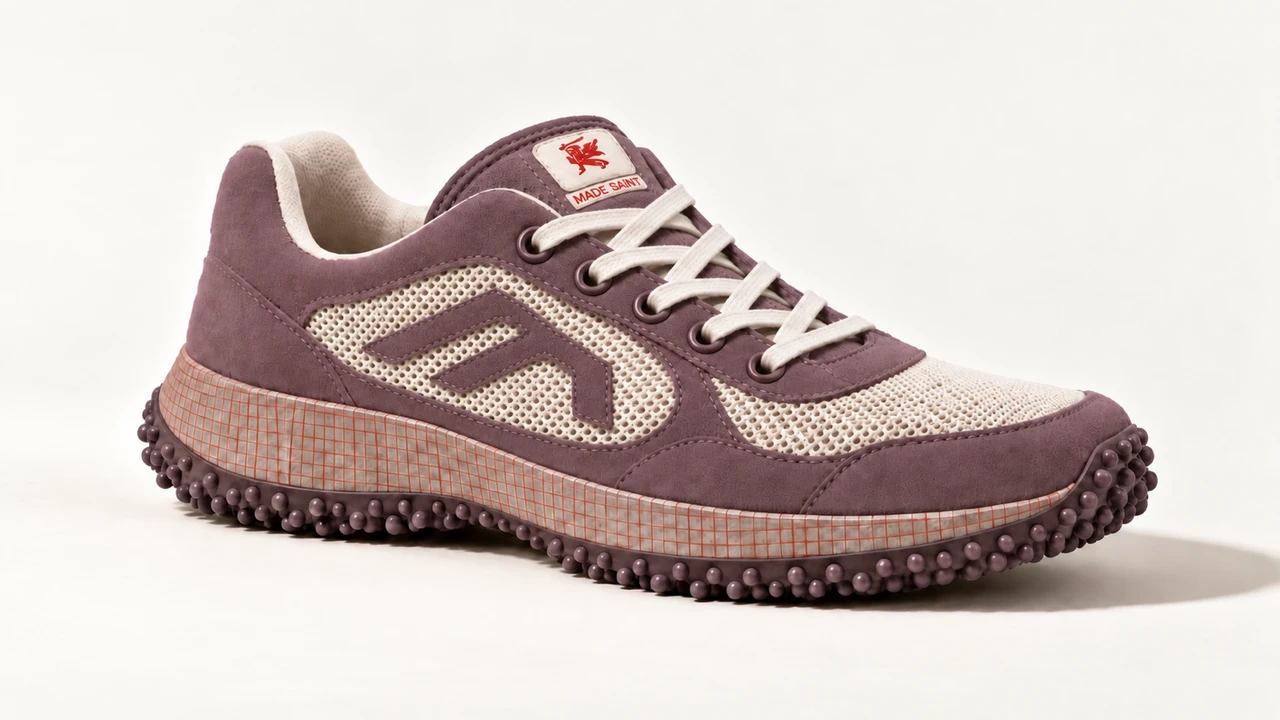
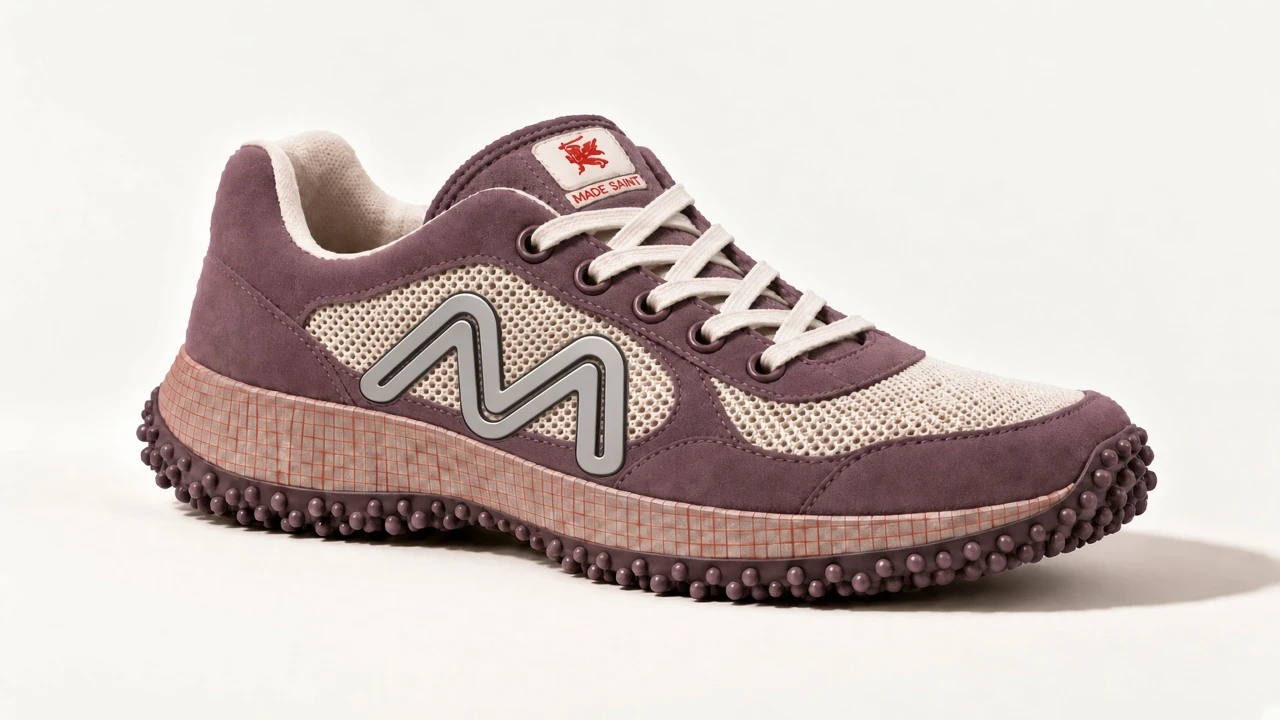
M side mark placement study: quarter sweep on the runner flats, spec page, placed hero renders

diff --git a/src/app/brand/page.tsx b/src/app/brand/page.tsx
@@ -1,0 +1,195 @@
+import Image from "next/image";
+import Link from "next/link";
+import type { Metadata } from "next";
+import { CONCEPT_PALETTE, assignRoles, buildCollection } from "@/lib/collection";
+import { STORIES } from "@/lib/stories";
+import { mix } from "@/lib/color";
+import { RunnerFlat, type RunnerVariant } from "@/components/flats/runner";
+import { MARK_PLACEMENTS, type MarkPlacementId } from "@/components/flats/mark";
+
+export const metadata: Metadata = {
+  title: "MADE SAiNT · M side mark",
+  description: "Placement study and specification for the reflective M side mark on the runner.",
+};
+
+const PAPER = "#f4f0e6";
+const REFLECTIVE = "#b9bbbd";
+/** Heel-to-toe length on the lateral flat, in flat units, and a US 9 last length in mm. */
+const FLAT_LENGTH = 526;
+const LAST_MM = 275;
+const MM = LAST_MM / FLAT_LENGTH;
+
+const STUDY: { id: MarkPlacementId; verdict: "Recommended" | "Alternative" | "Rejected"; points: string[] }[] = [
+  {
+    id: "quarter",
+    verdict: "Recommended",
+    points: [
+      "Owns the side of the shoe like the reference, but stays behind the flex zone, so the film never creases",
+      "Leans with the saddle and the eyestay, so the M reads as motion, not a sticker",
+      "Bridges the heel overlay and the mesh window; peaks tuck under the eyestay, feet stop on the midsole line",
+      "Crosses the quarter overlay and mesh: bond it to the closed upper before lasting",
+    ],
+  },
+  {
+    id: "window",
+    verdict: "Alternative",
+    points: [
+      "The quiet option: contained in the rear mesh window, no seams crossed",
+      "Can be cut from one piece and bonded to the flat mesh panel, the cheapest to make",
+      "Too small to carry the brand from across a room",
+    ],
+  },
+  {
+    id: "full",
+    verdict: "Rejected",
+    points: [
+      "Closest to the 700 MNVN, and that is the problem: it reads as borrowed",
+      "Runs through the forefoot flex zone, where bonded film cracks and lifts within weeks",
+      "Fights the saddle and mudguard lines instead of working with them",
+    ],
+  },
+  {
+    id: "heel",
+    verdict: "Rejected",
+    points: [
+      "Tidy, but the heel counter is already where the tongue label leads the eye",
+      "Lost in the curve of the heel from the side",
+    ],
+  },
+];
+
+const tone = { Recommended: "bg-[#2f5d3a] text-white", Alternative: "bg-[#22201d]/10", Rejected: "bg-[#9a3b2c]/12 text-[#9a3b2c]" };
+
+function looks() {
+  const tones = assignRoles(CONCEPT_PALETTE);
+  return buildCollection(
+    tones,
+    STORIES.map((s) => ({ style: "runner" as const, recipe: "hero" as const, story: s.id })),
+  );
+}
+
+export default function BrandPage() {
+  const hero = buildCollection(assignRoles(CONCEPT_PALETTE), [{ style: "runner", recipe: "hero" }])[0];
+  const stories = looks();
+  const q = MARK_PLACEMENTS.quarter;
+  const markW = Math.round((442 - 58 + 54) * q.sx * MM + Math.abs(Math.tan((q.lean * Math.PI) / 180)) * 226 * q.sy * MM);
+  const markH = Math.round((204 - 32 + 54) * q.sy * MM);
+
+  return (
+    <div className="min-h-screen bg-[#efe9dd] text-[#22201d]">
+      <header className="sticky top-0 z-20 border-b border-[#22201d]/10 bg-[#efe9dd]/95 backdrop-blur">
+        <div className="mx-auto flex max-w-[1400px] flex-wrap items-center justify-between gap-3 px-4 py-3">
+          <div>
+            <p className="font-serif text-2xl leading-none">MADE SAiNT</p>
+            <p className="mt-1 font-mono text-[11px] tracking-[0.14em] text-[#22201d]/60 uppercase">M side mark · placement study</p>
+          </div>
+          <nav className="flex flex-wrap gap-4 font-mono text-[11px] tracking-[0.1em] text-[#22201d]/60 uppercase">
+            <Link href="/studio" className="hover:text-[#22201d]">Studio</Link>
+            <Link href="/launch" className="hover:text-[#22201d]">Launch plan</Link>
+            <Link href="/shop" className="hover:text-[#22201d]">Shop</Link>
+          </nav>
+        </div>
+      </header>
+
+      <main className="mx-auto max-w-[1400px] space-y-8 px-4 py-6">
+        <section className="grid items-center gap-6 rounded-xl border border-[#22201d]/15 bg-[#fbf8f2] p-5 md:grid-cols-[320px_1fr]">
+          <div className="rounded-lg bg-[#1c1a17] p-6 text-[#b9bbbd]">
+            {/* eslint-disable-next-line @next/next/no-img-element */}
+            <img src="/brand/m-mark.svg" alt="MADE SAiNT M mark" className="w-full invert" />
+          </div>
+          <div>
+            <h1 className="font-serif text-4xl leading-none">The M</h1>
+            <p className="mt-3 max-w-2xl text-[14px] leading-relaxed text-[#22201d]/75">
+              A wide, forward-leaning monoline M with an inline channel, carried over from the nested-bar mark. Bonded reflective film,
+              flush, no stitching. Inspired by the scale and finish of the 700 MNVN graphics; the letterform and placement are our own.
+            </p>
+            <a href="/brand/m-mark.svg" download className="mt-4 inline-block font-mono text-[11px] tracking-[0.1em] uppercase underline underline-offset-4">
+              Download vector
+            </a>
+          </div>
+        </section>
+
+        <section>
+          <h2 className="font-serif text-3xl">Placement</h2>
+          <p className="mt-1 max-w-3xl text-[13px] text-[#22201d]/65">
+            Four positions on the locked lateral flat. The red band is the forefoot flex zone, where the upper creases on every step.
+          </p>
+          <div className="mt-4 grid gap-4 lg:grid-cols-2">
+            {STUDY.map((s) => {
+              const variant: RunnerVariant = { mark: s.id, markColor: REFLECTIVE, guides: true };
+              return (
+                <div key={s.id} className={`rounded-xl border bg-[#fbf8f2] p-4 ${s.verdict === "Recommended" ? "border-[#22201d] shadow-sm" : "border-[#22201d]/15"}`}>
+                  <div className="flex items-baseline justify-between gap-3">
+                    <h3 className="font-serif text-2xl">{MARK_PLACEMENTS[s.id].name}</h3>
+                    <span className={`rounded px-2 py-0.5 font-mono text-[10px] uppercase ${tone[s.verdict]}`}>{s.verdict}</span>
+                  </div>
+                  <RunnerFlat colors={hero.colors} view="lateral" paper={PAPER} variant={variant} className="mt-3 [&_svg]:h-auto [&_svg]:w-full" />
+                  <ul className="mt-3 space-y-1 text-[13px]">
+                    {s.points.map((p) => (
+                      <li key={p} className="flex gap-2"><span className="mt-2 h-px w-3 shrink-0 bg-[#22201d]/40" />{p}</li>
+                    ))}
+                  </ul>
+                </div>
+              );
+            })}
+          </div>
+        </section>
+
+        <section className="grid gap-6 rounded-xl border border-[#22201d]/15 bg-[#fbf8f2] p-5 lg:grid-cols-[1.3fr_1fr]">
+          <div>
+            <h2 className="font-serif text-3xl">Specification, quarter sweep</h2>
+            <RunnerFlat colors={hero.colors} view="lateral" paper={PAPER} variant={{ mark: "quarter", markColor: REFLECTIVE }} className="mt-3 [&_svg]:h-auto [&_svg]:w-full" />
+          </div>
+          <dl className="divide-y divide-[#22201d]/10 self-center text-[13px]">
+            {[
+              ["Position", "Lateral quarter only. Medial side stays clean."],
+              ["Size, US 9", `About ${markW} × ${markH} mm. Grade with the pattern, not by a fixed size.`],
+              ["Lean", `${Math.abs(q.lean)}° forward, between the eyestay and saddle angles`],
+              ["Top", "Leading peak 4 mm below the eyestay edge"],
+              ["Bottom", "Feet end 2 mm above the midsole line, never on the foam"],
+              ["Rear", "Rear foot on the heel overlay, about 40 mm ahead of the back seam"],
+              ["Front", "Ends before the saddle, under half the shoe length; the flex zone starts at 65%"],
+              ["Stroke", "Inline channel 2 mm, panel shows through"],
+              ["Material", "Heat-transfer reflective film, matte silver or tonal reflective"],
+              ["Process", "Bonded after closing, before lasting, on a contoured press"],
+            ].map(([k, v]) => (
+              <div key={k} className="grid grid-cols-[110px_1fr] gap-3 py-2">
+                <dt className="font-mono text-[10px] tracking-[0.1em] text-[#22201d]/55 uppercase">{k}</dt>
+                <dd>{v}</dd>
+              </div>
+            ))}
+          </dl>
+        </section>
+
+        <section>
+          <h2 className="font-serif text-3xl">Across the colorways</h2>
+          <p className="mt-1 max-w-3xl text-[13px] text-[#22201d]/65">
+            Quarter sweep on every story. Top row in silver reflective; bottom row in tonal reflective, a shade lighter than the overlay, which only flashes under light.
+          </p>
+          <div className="mt-4 grid gap-3 sm:grid-cols-2 lg:grid-cols-3">
+            {stories.map((r) => {
+              const base: RunnerVariant = { textures: r.textures, grid: false, label: r.storyData?.label, mark: "quarter" };
+              const overlay = r.colors.quarter;
+              return (
+                <div key={r.story} className="rounded-xl border border-[#22201d]/15 bg-[#fbf8f2] p-3">
+                  <p className="font-serif text-xl">{r.storyData?.name}</p>
+                  <RunnerFlat colors={r.colors} view="lateral" paper={PAPER} variant={{ ...base, markColor: REFLECTIVE }} className="mt-2 [&_svg]:h-auto [&_svg]:w-full" />
+                  <RunnerFlat colors={r.colors} view="lateral" paper={PAPER} variant={{ ...base, markColor: mix(overlay, "#ffffff", 0.22) }} className="mt-1 [&_svg]:h-auto [&_svg]:w-full" />
+                </div>
+              );
+            })}
+          </div>
+        </section>
+
+        <section>
+          <h2 className="font-serif text-3xl">Concept renders</h2>
+          <div className="mt-4 grid gap-3 sm:grid-cols-2">
+            {["m-concept-runner-placed", "m-concept-runner-aubergine", "m-concept-mule", "m-concept-runner-oversized"].map((f) => (
+              <Image key={f} src={`/brand/${f}.webp`} alt={f} width={1280} height={720} className="w-full rounded-xl" />
+            ))}
+          </div>
+        </section>
+      </main>
+    </div>
+  );
+}

diff --git a/src/components/flats/mark.tsx b/src/components/flats/mark.tsx
@@ -1,0 +1,51 @@
+import { INK } from "./textures";
+
+/** The M side mark, same geometry as public/brand/m-mark.svg (local units, before skew). */
+export const M_PATH = "M58 204 L104 66 Q116 32 140 60 L232 168 Q250 188 268 168 L360 60 Q384 32 396 66 L442 204";
+const OUTER = 54;
+const INNER = 14;
+const EDGE = 2.4;
+
+export type MarkPlacementId = "window" | "quarter" | "full" | "heel";
+
+export type MarkPlacement = {
+  id: MarkPlacementId;
+  name: string;
+  tx: number;
+  ty: number;
+  sx: number;
+  sy: number;
+  lean: number;
+};
+
+/** Placements on the runner lateral flat (600 × 262, toe right). */
+export const MARK_PLACEMENTS: Record<MarkPlacementId, MarkPlacement> = {
+  window: { id: "window", name: "Mesh window", tx: 196, ty: 134, sx: 0.2, sy: 0.24, lean: -14 },
+  quarter: { id: "quarter", name: "Quarter sweep", tx: 132, ty: 130.6, sx: 0.38, sy: 0.285, lean: -20 },
+  full: { id: "full", name: "Full length", tx: 86, ty: 113, sx: 0.98, sy: 0.36, lean: -14 },
+  heel: { id: "heel", name: "Heel counter", tx: 58, ty: 128, sx: 0.15, sy: 0.2, lean: -14 },
+};
+
+/** Inline double-line M: an ink edge, then the film colour, with the channel showing the panel underneath. */
+export function MMark({ uid, placement, color, clip }: { uid: string; placement: MarkPlacement; color: string; clip?: string }) {
+  const { tx, ty, sx, sy, lean } = placement;
+  const id = `${uid}-m-${placement.id}`;
+  const mask = (key: string, outer: number, inner: number) => (
+    <mask id={`${id}-${key}`} maskUnits="userSpaceOnUse" x="-200" y="-100" width="1000" height="440">
+      <path d={M_PATH} fill="none" stroke="#fff" strokeWidth={outer} strokeLinecap="round" strokeLinejoin="round" />
+      <path d={M_PATH} fill="none" stroke="#000" strokeWidth={inner} strokeLinecap="round" strokeLinejoin="round" />
+    </mask>
+  );
+  return (
+    <g clipPath={clip ? `url(#${clip})` : undefined}>
+      <g transform={`translate(${tx} ${ty}) skewX(${lean}) scale(${sx} ${sy})`}>
+        <defs>
+          {mask("edge", OUTER + EDGE / Math.min(sx, sy), INNER - EDGE / Math.min(sx, sy))}
+          {mask("fill", OUTER, INNER)}
+        </defs>
+        <rect x="-200" y="-100" width="1000" height="440" fill={INK} mask={`url(#${id}-edge)`} />
+        <rect x="-200" y="-100" width="1000" height="440" fill={color} mask={`url(#${id}-fill)`} />
+      </g>
+    </g>
+  );
+}

diff --git a/src/components/flats/runner.tsx b/src/components/flats/runner.tsx
@@ -2,8 +2,17 @@ import { useId } from "react";
 import { STYLES, type Texture } from "@/lib/collection";
 import { mix } from "@/lib/color";
 import { INK, Pattern, cr, type Pt } from "./textures";
+import { MARK_PLACEMENTS, MMark, type MarkPlacementId } from "./mark";
 
-export type RunnerVariant = { textures?: Record<string, Texture>; grid?: boolean; label?: "woven" | "printed" };
+export type RunnerVariant = {
+  textures?: Record<string, Texture>;
+  grid?: boolean;
+  label?: "woven" | "printed";
+  mark?: MarkPlacementId;
+  markColor?: string;
+  /** Draws the forefoot flex zone, for placement studies. */
+  guides?: boolean;
+};
 type Props = { colors: Record<string, string>; view: "lateral" | "top"; paper?: string; className?: string; variant?: RunnerVariant };
 type ViewProps = { uid: string; colors: Record<string, string>; paper: string; variant: RunnerVariant };
 
@@ -74,6 +83,9 @@ function Lateral({ uid, colors, paper, variant }: ViewProps) {
         <path d={L_LINING} fill="none" stroke={f("lining")} strokeWidth="7" />
         <path d={L_LINING} fill="none" stroke={INK} strokeWidth="0.6" transform="translate(0 3.6)" />
       </g>
+      {variant.mark && (
+        <MMark uid={uid} placement={MARK_PLACEMENTS[variant.mark]} color={variant.markColor ?? "#b9bbbd"} clip={`${uid}-clip`} />
+      )}
       <path d={L_UPPER} fill="none" stroke={INK} strokeWidth="1.1" />
 
       <path d={L_MIDSOLE} fill={f("midsole")} stroke={INK} strokeWidth="1" />
@@ -109,6 +121,15 @@ function Lateral({ uid, colors, paper, variant }: ViewProps) {
           </g>
         ))}
       </g>
+      {variant.guides && (
+        <g pointerEvents="none">
+          <rect x="384" y="40" width="70" height="210" fill="#c8383a" opacity="0.1" />
+          <path d="M 384 40 V 250 M 454 40 V 250" stroke="#c8383a" strokeWidth="0.8" strokeDasharray="3 3" />
+          <text x="419" y="34" textAnchor="middle" fontSize="8" fill="#c8383a" fontFamily="ui-monospace, monospace" letterSpacing="0.6">
+            FOREFOOT FLEX
+          </text>
+        </g>
+      )}
     </svg>
   );
 }

diff --git a/src/app/studio/page.tsx b/src/app/studio/page.tsx
@@ -170,6 +170,9 @@ export default function Studio() {
             <Link href="/" className="px-2 font-mono text-[11px] uppercase tracking-[0.1em] text-[#22201d]/60 hover:text-[#22201d]">
               Trail Mule package
             </Link>
+            <Link href="/brand" className="px-2 font-mono text-[11px] uppercase tracking-[0.1em] text-[#22201d]/60 hover:text-[#22201d]">
+              M mark
+            </Link>
             <Link href="/launch" className="px-2 font-mono text-[11px] uppercase tracking-[0.1em] text-[#22201d]/60 hover:text-[#22201d]">
               Launch plan
             </Link>

diff --git a/src/components/studio/look.tsx b/src/components/studio/look.tsx
@@ -36,7 +36,8 @@ export function Segmented<T extends string>({ value, options, onChange, label }:
 }
 
 export function variantOf(r: SlotResult): RunnerVariant {
-  return r.storyData ? { textures: r.textures, grid: false, label: r.storyData.label } : {};
+  const mark = { mark: "quarter" as const, markColor: "#b9bbbd" };
+  return r.storyData ? { textures: r.textures, grid: false, label: r.storyData.label, ...mark } : mark;
 }
 
 export function Flat({ style, colors, view, variant }: { style: StyleId; colors: Record<string, string>; view: "lateral" | "top"; variant?: RunnerVariant }) {

diff --git a/README.md b/README.md
@@ -7,6 +7,7 @@ A pre-order footwear business made with MEES (Felgueiras, Portugal): the storefr
 | `/shop` | Founding Edition pre-order storefront |
 | `/launch` | Pricing, unit economics, pre-order tracker, cash flow, size run, marketing plan, reservations |
 | `/studio` | Collection Studio |
+| `/brand` | M side mark: placement study, spec, colorways, vector |
 | `/` | MS-TM01 Trail Mule technical package |
 
 ## Pre-order shop (`/shop`)
